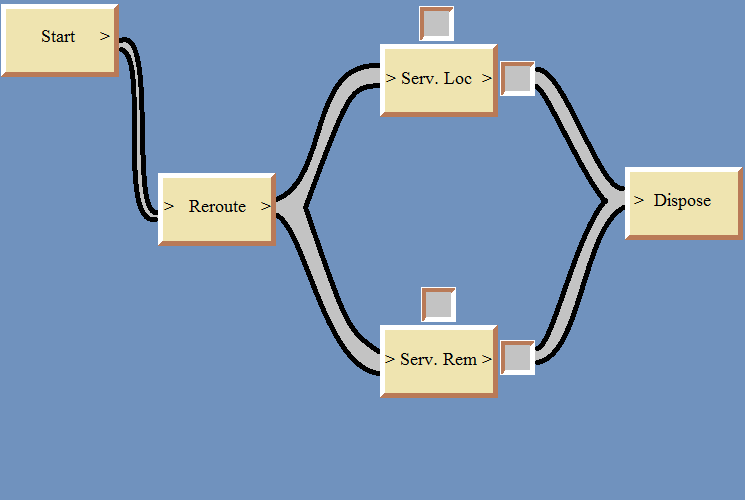
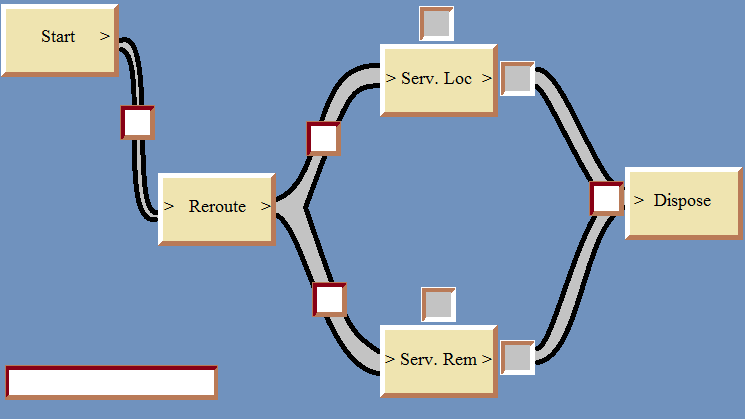
Ready

diff --git a/SimuladorSmail/src/GUI/Painel.java b/SimuladorSmail/src/GUI/Painel.java
@@ -22,27 +22,17 @@ import javax.swing.JPanel;
  *
  * @author Luca
  */
-public class Painel extends JPanel implements Runnable{
-    
-    public static int[] STARTOUT = {120,20};
-    public static int[] RECEPTIN = {100,200};
-    public static int[] RECEPTOUT = {150,200};
-    public static int[] LSERVIN = {200,100};
-    public static int[] LSERVOUT = {250,100};
-    public static int[] RSERVIN = {200,200};
-    public static int[] RSERVOUT = {250,200};
-    public static int[] DISPOSEIN = {400,200};
-    public static int[] DISPOSEOUT = {450,200};
-    
-    public static int ALTURA = 500;
+public class Painel extends JPanel implements Runnable {
+
+    public static int ALTURA = 420;
     public static int LARGURA = 745;
-    
+
     private Thread thread;
     private BufferedImage image;
     private Graphics2D g;
-    
+
     private BufferedImage BI;
-    
+
     private int FPS = 60;
     private long tempo = 1000 / FPS;
 
@@ -50,9 +40,11 @@ public class Painel extends JPanel implements Runnable{
     private static int ServLocQ;
     private static int ServRemOcc;
     private static int ServRemQ;
-    
-    private ArrayList<Simbolo> simbs;
-    
+    private static int St2Re;
+    private static int Re2Sml;
+    private static int Re2Smr;
+    private static int Sm2Dis;
+
     public Painel() {
         super();
         setPreferredSize(new Dimension(LARGURA, ALTURA));
@@ -64,17 +56,13 @@ public class Painel extends JPanel implements Runnable{
         } catch (IOException ex) {
             ex.printStackTrace();
         }
-        
-        simbs = new ArrayList<Simbolo>();
-        
-        simbs.add(new Simbolo(STARTOUT,RECEPTIN,2));
-        System.out.println(simbs.size());
     }
 
     public void init() {
         this.image = new BufferedImage(LARGURA, ALTURA, BufferedImage.TYPE_INT_RGB);
         this.g = (Graphics2D) image.getGraphics();
         g.setColor(Color.red);
+
     }
 
     @Override
@@ -88,9 +76,6 @@ public class Painel extends JPanel implements Runnable{
     }
 
     public void update() {
-        for(Simbolo s : simbs){
-            s.move();
-        }
     }
 
     public void draw(Graphics2D g) {
@@ -99,27 +84,36 @@ public class Painel extends JPanel implements Runnable{
         g.drawString(ServLocQ + "", 513, 83);
         g.drawString(ServRemOcc + "", 435, 310);
         g.drawString(ServRemQ + "", 514, 362);
-        for(Simbolo s : simbs){
-            s.draw(g);
-        }
+        g.drawString(St2Re + "", 132,125);
+        g.drawString(Re2Sml + "", 318,140);
+        g.drawString(Re2Smr + "", 325,305);
+        g.drawString(Sm2Dis + "", 600,200);
+        g.drawString("TempoAtual: " + Utilities.getTempo(),15, 390);
     }
 
     public void drawToScreen() {
         Graphics g2 = getGraphics();
         g2.drawImage(image, 0, 0, null);
     }
-    
-    public static void setLStuff(int LO, int LQ){
+
+    public static void setLStuff(int LO, int LQ) {
         ServLocOcc = LO;
         ServLocQ = LQ;
-        
+
     }
-    
-    public static void setRStuff(int RO, int RQ){
+
+    public static void setRStuff(int RO, int RQ) {
         ServRemOcc = RO;
         ServRemQ = RQ;
     }
-    
+
+    public static void setWays(int[] ways) {
+        St2Re = ways[0];
+        Re2Sml = ways[1];
+        Re2Smr = ways[2];
+        Sm2Dis = ways[3];
+    }
+
     @Override
     public void run() {
         this.init();
@@ -142,9 +136,11 @@ public class Painel extends JPanel implements Runnable{
                         thread.sleep(tempo - elapsed);
                     } else {
                         thread.sleep(tempo);
+
                     }
                 } catch (InterruptedException ex) {
-                    Logger.getLogger(Painel.class.getName()).log(Level.SEVERE, null, ex);
+                    Logger.getLogger(Painel.class
+                            .getName()).log(Level.SEVERE, null, ex);
                 }
             }
         }

diff --git a/SimuladorSmail/src/simuladorsmail/Sistema.java b/SimuladorSmail/src/simuladorsmail/Sistema.java
@@ -72,38 +72,38 @@ public class Sistema implements Runnable {
     public void RunEvent(Evento e) {
         if (e.getTipo() == Evento.tipoDeEvento.CRIACAOL) {
             se.createEvent(true);
-            System.out.println("Criacao Local");
+            //System.out.println("Criacao Local");
         }
         if (e.getTipo() == Evento.tipoDeEvento.CRIACAOR) {
             se.createEvent(false);
-            System.out.println("Criacao Remoto");
+            //System.out.println("Criacao Remoto");
         }
         if (e.getTipo() == Evento.tipoDeEvento.SELECAO) {
             rm.createEvent(e.getEntity());
-            System.out.println("Receipt Event");
+            //System.out.println("Receipt Event");
         }
         if (e.getTipo() == Evento.tipoDeEvento.SERVICO) {
             if (e.getEntity().getDestinatario() == 'l') {
                 sml.createEventEntrada(e.getEntity());
-                System.out.println("Entry Event Local");
+                //System.out.println("Entry Event Local");
             } else {
                 smr.createEventEntrada(e.getEntity());
-                System.out.println("Entry Event Remote");
+                //System.out.println("Entry Event Remote");
             }
 
         }
         if (e.getTipo() == Evento.tipoDeEvento.SAIDA) {
             if (e.getEntity().getDestinatario() == 'l') {
                 sml.createEventSaida(e.getEntity());
-                System.out.println("Exit Event Local");
+                //System.out.println("Exit Event Local");
             } else {
                 smr.createEventSaida(e.getEntity());
-                System.out.println("Exit Event Remote");
+                //System.out.println("Exit Event Remote");
             }
         }
         if (e.getTipo() == Evento.tipoDeEvento.FINAL) {
             ee.Register(e.getEntity());
-            System.out.println("Dispose Event");
+            //System.out.println("Dispose Event");
         }
         if (e.getTipo() == Evento.tipoDeEvento.TERMINO) {
             END();
@@ -112,6 +112,7 @@ public class Sistema implements Runnable {
         try {
             Painel.setLStuff(sml.getFilaSize(), sml.getOcupacao());
             Painel.setRStuff(smr.getFilaSize(), smr.getOcupacao());
+            Painel.setWays(countEvents());
             sleep(spd);
         } catch (InterruptedException ex) {
             ex.printStackTrace();
@@ -139,12 +140,13 @@ public class Sistema implements Runnable {
     }
     
     public void setDelay(int delay){
-        if(delay == 0){
+        if(delay == 1){
             spd = 100;
         } else
-        if(delay == 1){
+        if(delay == 2){
             spd = 500;
-        } else {
+        } else
+        if(delay == 3){
             spd = 800;
         }
     }
@@ -201,6 +203,26 @@ public class Sistema implements Runnable {
     
     public ServiceModule getServiceModuleR (){
         return smr;
+    }
+    
+    public int[] countEvents(){
+        int i[] = new int[4];
+        for(Evento e : filaDeEventos){
+            if(e.getTipo() == Evento.tipoDeEvento.SELECAO){
+                i[0]++;
+            }
+            if(e.getTipo() == Evento.tipoDeEvento.SERVICO){
+                if(e.getEntity().getDestinatario() =='l'){
+                    i[1]++;
+                } else {
+                    i[2]++;
+                }
+            }
+            if(e.getTipo() == Evento.tipoDeEvento.FINAL){
+                i[3]++;
+            }
+        }
+        return i;
     }
 
 }

diff --git a/SimuladorSmail/src/simuladorsmail/ServiceModule.java b/SimuladorSmail/src/simuladorsmail/ServiceModule.java
@@ -71,12 +71,13 @@ public class ServiceModule extends Module {
             if (!filaDeServico.isEmpty()) {
                 sisRef.createEvent(Evento.tipoDeEvento.SERVICO, Utilities.getTempo(), filaDeServico.remove(0));
             }
+            /*
             if(entidade.getFalha()){
                 System.out.println("Fail");
             }
             if(entidade.getSucesso()){
                 System.out.println("Sucesso");
-            }
+            }*/
             return;
         }
         if (entidade.getAdiamento()) {//Adiamento
@@ -87,7 +88,7 @@ public class ServiceModule extends Module {
             if (!filaDeServico.isEmpty()) {
                 sisRef.createEvent(Evento.tipoDeEvento.SERVICO, Utilities.getTempo(), filaDeServico.remove(0));
             }
-            System.out.println("Adiado");
+            //System.out.println("Adiado");
             return;
         }
     }

diff --git a/SimuladorSmail/src/GUI/Inicial.java b/SimuladorSmail/src/GUI/Inicial.java
@@ -22,7 +22,7 @@ public class Inicial extends javax.swing.JFrame {
     public Inicial() {
         super("Luca Campelli & Rodrigo Bonacossa's simulator");
         initComponents();
-        this.setLocationRelativeTo(null);
+        
     }
     
     public void setSis(Sistema sys){
